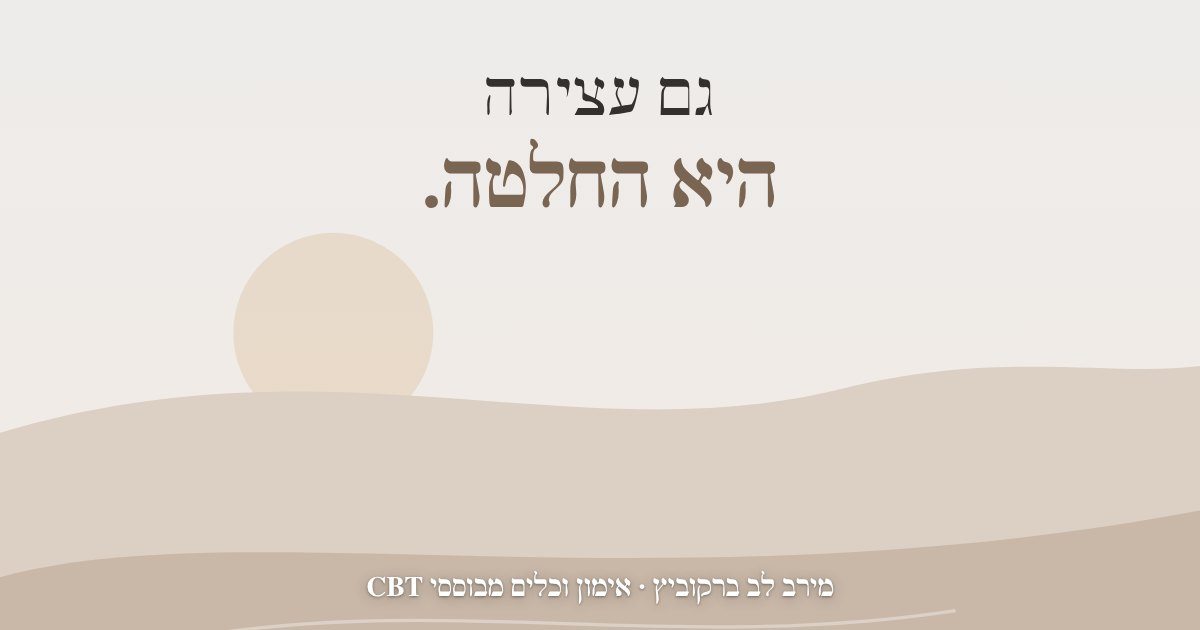
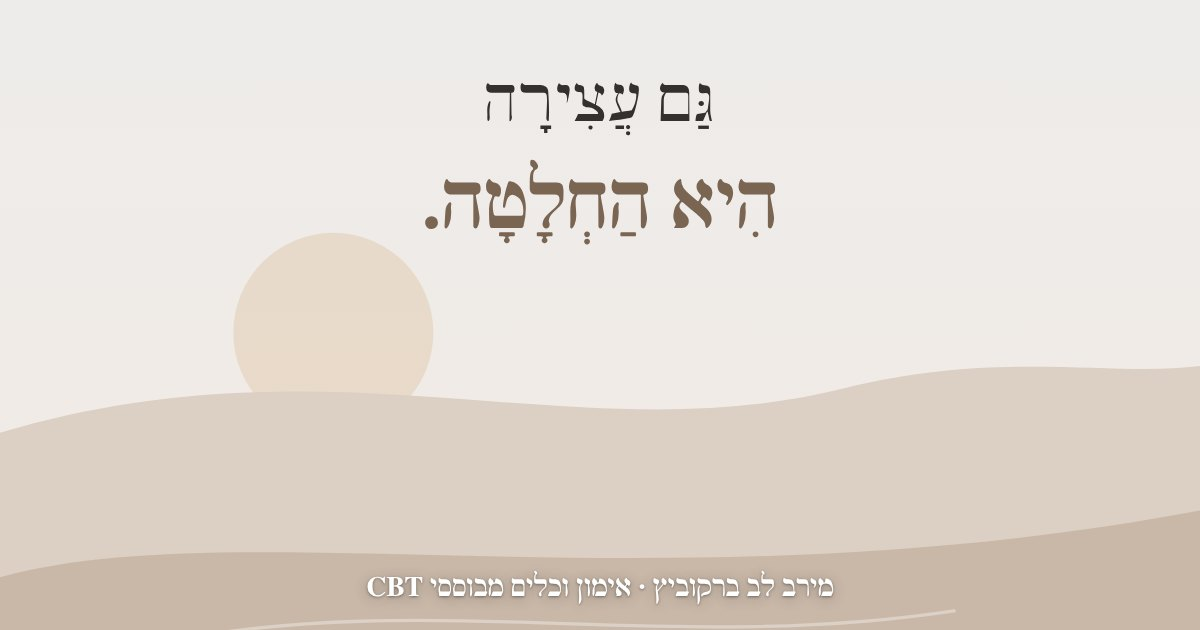
ניקוד למשפטי ההשראה בתמונות השיתוף
Claude-Session: https://claude.ai/code/session_01UJiPegA7aNKYBePT2ZEGjT

Changed region(s): [[0.3392, 0.1206, 0.6475, 0.3921]]

diff --git a/share/q/22/index.html b/share/q/22/index.html
@@ -1,9 +1,9 @@
 <!DOCTYPE html><html lang="he" dir="rtl"><head><meta charset="utf-8"><meta name="viewport" content="width=device-width,initial-scale=1">
-<title>מחשבה לקחת איתך – מירב לב ברקוביץ&#x27;</title><meta name="description" content="יש החלטות שמשנות את הדרך, ויש כאלה שמשנות את ההולכת בה.">
+<title>מחשבה לקחת איתך – מירב לב ברקוביץ&#x27;</title><meta name="description" content="יֵשׁ הַחְלָטוֹת שֶׁמְּשַׁנּוֹת אֶת הַדֶּרֶךְ, וְיֵשׁ כָּאֵלֶּה שֶׁמְּשַׁנּוֹת אֶת הַהוֹלֶכֶת בָּהּ.">
 <meta property="og:type" content="website"><meta property="og:locale" content="he_IL"><meta property="og:url" content="https://meiravlev.pages.dev/q/22/">
-<meta property="og:title" content="מחשבה לקחת איתך – מירב לב ברקוביץ&#x27;"><meta property="og:description" content="יש החלטות שמשנות את הדרך, ויש כאלה שמשנות את ההולכת בה.">
+<meta property="og:title" content="מחשבה לקחת איתך – מירב לב ברקוביץ&#x27;"><meta property="og:description" content="יֵשׁ הַחְלָטוֹת שֶׁמְּשַׁנּוֹת אֶת הַדֶּרֶךְ, וְיֵשׁ כָּאֵלֶּה שֶׁמְּשַׁנּוֹת אֶת הַהוֹלֶכֶת בָּהּ.">
 <meta property="og:image" content="https://meiravlev.pages.dev/img/q22.jpg"><meta property="og:image:width" content="1200"><meta property="og:image:height" content="630">
 <meta name="twitter:card" content="summary_large_image">
 
 <style>body{margin:0;font-family:system-ui,sans-serif;background:#faf7f2;color:#2f3b3f;text-align:center;padding:24px}img{max-width:100%;border-radius:16px}a.b{display:inline-block;margin-top:18px;background:#3e8a86;color:#fff;padding:14px 26px;border-radius:999px;text-decoration:none;font-size:18px}</style></head>
-<body><img src="/img/q22.jpg" alt="יש החלטות שמשנות את הדרך, ויש כאלה שמשנות את ההולכת בה."><p style="font-size:20px">יש החלטות שמשנות את הדרך,<br><b>ויש כאלה שמשנות את ההולכת בה.</b></p><p>מירב לב ברקוביץ · אימון וכלים מבוססי CBT</p><a class="b" href="/calm/">לכלים הדיגיטליים שלי</a></body></html>
+<body><img src="/img/q22.jpg" alt="יֵשׁ הַחְלָטוֹת שֶׁמְּשַׁנּוֹת אֶת הַדֶּרֶךְ, וְיֵשׁ כָּאֵלֶּה שֶׁמְּשַׁנּוֹת אֶת הַהוֹלֶכֶת בָּהּ."><p style="font-size:20px">יֵשׁ הַחְלָטוֹת שֶׁמְּשַׁנּוֹת אֶת הַדֶּרֶךְ,<br><b>וְיֵשׁ כָּאֵלֶּה שֶׁמְּשַׁנּוֹת אֶת הַהוֹלֶכֶת בָּהּ.</b></p><p>מירב לב ברקוביץ · אימון וכלים מבוססי CBT</p><a class="b" href="/calm/">לכלים הדיגיטליים שלי</a></body></html>

diff --git a/share/q/10/index.html b/share/q/10/index.html
@@ -1,9 +1,9 @@
 <!DOCTYPE html><html lang="he" dir="rtl"><head><meta charset="utf-8"><meta name="viewport" content="width=device-width,initial-scale=1">
-<title>מחשבה לקחת איתך – מירב לב ברקוביץ&#x27;</title><meta name="description" content="בהירות היא לא לדעת מה נכון. היא להפסיק להתווכח עם מה שכבר לא.">
+<title>מחשבה לקחת איתך – מירב לב ברקוביץ&#x27;</title><meta name="description" content="בְּהִירוּת הִיא לֹא לָדַעַת מָה נָכוֹן. הִיא לְהַפְסִיק לְהִתְוַכֵּחַ עִם מָה שֶׁכְּבָר לֹא.">
 <meta property="og:type" content="website"><meta property="og:locale" content="he_IL"><meta property="og:url" content="https://meiravlev.pages.dev/q/10/">
-<meta property="og:title" content="מחשבה לקחת איתך – מירב לב ברקוביץ&#x27;"><meta property="og:description" content="בהירות היא לא לדעת מה נכון. היא להפסיק להתווכח עם מה שכבר לא.">
+<meta property="og:title" content="מחשבה לקחת איתך – מירב לב ברקוביץ&#x27;"><meta property="og:description" content="בְּהִירוּת הִיא לֹא לָדַעַת מָה נָכוֹן. הִיא לְהַפְסִיק לְהִתְוַכֵּחַ עִם מָה שֶׁכְּבָר לֹא.">
 <meta property="og:image" content="https://meiravlev.pages.dev/img/q10.jpg"><meta property="og:image:width" content="1200"><meta property="og:image:height" content="630">
 <meta name="twitter:card" content="summary_large_image">
 
 <style>body{margin:0;font-family:system-ui,sans-serif;background:#faf7f2;color:#2f3b3f;text-align:center;padding:24px}img{max-width:100%;border-radius:16px}a.b{display:inline-block;margin-top:18px;background:#3e8a86;color:#fff;padding:14px 26px;border-radius:999px;text-decoration:none;font-size:18px}</style></head>
-<body><img src="/img/q10.jpg" alt="בהירות היא לא לדעת מה נכון. היא להפסיק להתווכח עם מה שכבר לא."><p style="font-size:20px">בהירות היא לא לדעת מה נכון.<br><b>היא להפסיק להתווכח עם מה שכבר לא.</b></p><p>מירב לב ברקוביץ · אימון וכלים מבוססי CBT</p><a class="b" href="/calm/">לכלים הדיגיטליים שלי</a></body></html>
+<body><img src="/img/q10.jpg" alt="בְּהִירוּת הִיא לֹא לָדַעַת מָה נָכוֹן. הִיא לְהַפְסִיק לְהִתְוַכֵּחַ עִם מָה שֶׁכְּבָר לֹא."><p style="font-size:20px">בְּהִירוּת הִיא לֹא לָדַעַת מָה נָכוֹן.<br><b>הִיא לְהַפְסִיק לְהִתְוַכֵּחַ עִם מָה שֶׁכְּבָר לֹא.</b></p><p>מירב לב ברקוביץ · אימון וכלים מבוססי CBT</p><a class="b" href="/calm/">לכלים הדיגיטליים שלי</a></body></html>

diff --git a/share/q/19/index.html b/share/q/19/index.html
@@ -1,9 +1,9 @@
 <!DOCTYPE html><html lang="he" dir="rtl"><head><meta charset="utf-8"><meta name="viewport" content="width=device-width,initial-scale=1">
-<title>מחשבה לקחת איתך – מירב לב ברקוביץ&#x27;</title><meta name="description" content="הוודאות מרגיעה את הראש, אבל לא נותנת לחיים להפתיע.">
+<title>מחשבה לקחת איתך – מירב לב ברקוביץ&#x27;</title><meta name="description" content="הַוַּדָּאוּת מַרְגִּיעָה אֶת הָרֹאשׁ, אֲבָל לֹא נוֹתֶנֶת לַחַיִּים לְהַפְתִּיעַ.">
 <meta property="og:type" content="website"><meta property="og:locale" content="he_IL"><meta property="og:url" content="https://meiravlev.pages.dev/q/19/">
-<meta property="og:title" content="מחשבה לקחת איתך – מירב לב ברקוביץ&#x27;"><meta property="og:description" content="הוודאות מרגיעה את הראש, אבל לא נותנת לחיים להפתיע.">
+<meta property="og:title" content="מחשבה לקחת איתך – מירב לב ברקוביץ&#x27;"><meta property="og:description" content="הַוַּדָּאוּת מַרְגִּיעָה אֶת הָרֹאשׁ, אֲבָל לֹא נוֹתֶנֶת לַחַיִּים לְהַפְתִּיעַ.">
 <meta property="og:image" content="https://meiravlev.pages.dev/img/q19.jpg"><meta property="og:image:width" content="1200"><meta property="og:image:height" content="630">
 <meta name="twitter:card" content="summary_large_image">
 
 <style>body{margin:0;font-family:system-ui,sans-serif;background:#faf7f2;color:#2f3b3f;text-align:center;padding:24px}img{max-width:100%;border-radius:16px}a.b{display:inline-block;margin-top:18px;background:#3e8a86;color:#fff;padding:14px 26px;border-radius:999px;text-decoration:none;font-size:18px}</style></head>
-<body><img src="/img/q19.jpg" alt="הוודאות מרגיעה את הראש, אבל לא נותנת לחיים להפתיע."><p style="font-size:20px">הוודאות מרגיעה את הראש,<br><b>אבל לא נותנת לחיים להפתיע.</b></p><p>מירב לב ברקוביץ · אימון וכלים מבוססי CBT</p><a class="b" href="/calm/">לכלים הדיגיטליים שלי</a></body></html>
+<body><img src="/img/q19.jpg" alt="הַוַּדָּאוּת מַרְגִּיעָה אֶת הָרֹאשׁ, אֲבָל לֹא נוֹתֶנֶת לַחַיִּים לְהַפְתִּיעַ."><p style="font-size:20px">הַוַּדָּאוּת מַרְגִּיעָה אֶת הָרֹאשׁ,<br><b>אֲבָל לֹא נוֹתֶנֶת לַחַיִּים לְהַפְתִּיעַ.</b></p><p>מירב לב ברקוביץ · אימון וכלים מבוססי CBT</p><a class="b" href="/calm/">לכלים הדיגיטליים שלי</a></body></html>

diff --git a/share/q/04/index.html b/share/q/04/index.html
@@ -1,9 +1,9 @@
 <!DOCTYPE html><html lang="he" dir="rtl"><head><meta charset="utf-8"><meta name="viewport" content="width=device-width,initial-scale=1">
-<title>מחשבה לקחת איתך – מירב לב ברקוביץ&#x27;</title><meta name="description" content="אנחנו מחכות שהנסיבות ישתנו. הנסיבות מחכות לנו.">
+<title>מחשבה לקחת איתך – מירב לב ברקוביץ&#x27;</title><meta name="description" content="אֲנַחְנוּ מְחַכּוֹת שֶׁהַנְּסִבּוֹת יִשְׁתַּנּוּ. הַנְּסִבּוֹת מְחַכּוֹת לָנוּ.">
 <meta property="og:type" content="website"><meta property="og:locale" content="he_IL"><meta property="og:url" content="https://meiravlev.pages.dev/q/04/">
-<meta property="og:title" content="מחשבה לקחת איתך – מירב לב ברקוביץ&#x27;"><meta property="og:description" content="אנחנו מחכות שהנסיבות ישתנו. הנסיבות מחכות לנו.">
+<meta property="og:title" content="מחשבה לקחת איתך – מירב לב ברקוביץ&#x27;"><meta property="og:description" content="אֲנַחְנוּ מְחַכּוֹת שֶׁהַנְּסִבּוֹת יִשְׁתַּנּוּ. הַנְּסִבּוֹת מְחַכּוֹת לָנוּ.">
 <meta property="og:image" content="https://meiravlev.pages.dev/img/q04.jpg"><meta property="og:image:width" content="1200"><meta property="og:image:height" content="630">
 <meta name="twitter:card" content="summary_large_image">
 
 <style>body{margin:0;font-family:system-ui,sans-serif;background:#faf7f2;color:#2f3b3f;text-align:center;padding:24px}img{max-width:100%;border-radius:16px}a.b{display:inline-block;margin-top:18px;background:#3e8a86;color:#fff;padding:14px 26px;border-radius:999px;text-decoration:none;font-size:18px}</style></head>
-<body><img src="/img/q04.jpg" alt="אנחנו מחכות שהנסיבות ישתנו. הנסיבות מחכות לנו."><p style="font-size:20px">אנחנו מחכות שהנסיבות ישתנו.<br><b>הנסיבות מחכות לנו.</b></p><p>מירב לב ברקוביץ · אימון וכלים מבוססי CBT</p><a class="b" href="/calm/">לכלים הדיגיטליים שלי</a></body></html>
+<body><img src="/img/q04.jpg" alt="אֲנַחְנוּ מְחַכּוֹת שֶׁהַנְּסִבּוֹת יִשְׁתַּנּוּ. הַנְּסִבּוֹת מְחַכּוֹת לָנוּ."><p style="font-size:20px">אֲנַחְנוּ מְחַכּוֹת שֶׁהַנְּסִבּוֹת יִשְׁתַּנּוּ.<br><b>הַנְּסִבּוֹת מְחַכּוֹת לָנוּ.</b></p><p>מירב לב ברקוביץ · אימון וכלים מבוססי CBT</p><a class="b" href="/calm/">לכלים הדיגיטליים שלי</a></body></html>

diff --git a/share/q/09/index.html b/share/q/09/index.html
@@ -1,9 +1,9 @@
 <!DOCTYPE html><html lang="he" dir="rtl"><head><meta charset="utf-8"><meta name="viewport" content="width=device-width,initial-scale=1">
-<title>מחשבה לקחת איתך – מירב לב ברקוביץ&#x27;</title><meta name="description" content="כשמשנים את השאלה, לפעמים התשובה כבר לא נחוצה.">
+<title>מחשבה לקחת איתך – מירב לב ברקוביץ&#x27;</title><meta name="description" content="כְּשֶׁמְּשַׁנִּים אֶת הַשְּׁאֵלָה, לִפְעָמִים הַתְּשׁוּבָה כְּבָר לֹא נְחוּצָה.">
 <meta property="og:type" content="website"><meta property="og:locale" content="he_IL"><meta property="og:url" content="https://meiravlev.pages.dev/q/09/">
-<meta property="og:title" content="מחשבה לקחת איתך – מירב לב ברקוביץ&#x27;"><meta property="og:description" content="כשמשנים את השאלה, לפעמים התשובה כבר לא נחוצה.">
+<meta property="og:title" content="מחשבה לקחת איתך – מירב לב ברקוביץ&#x27;"><meta property="og:description" content="כְּשֶׁמְּשַׁנִּים אֶת הַשְּׁאֵלָה, לִפְעָמִים הַתְּשׁוּבָה כְּבָר לֹא נְחוּצָה.">
 <meta property="og:image" content="https://meiravlev.pages.dev/img/q09.jpg"><meta property="og:image:width" content="1200"><meta property="og:image:height" content="630">
 <meta name="twitter:card" content="summary_large_image">
 
 <style>body{margin:0;font-family:system-ui,sans-serif;background:#faf7f2;color:#2f3b3f;text-align:center;padding:24px}img{max-width:100%;border-radius:16px}a.b{display:inline-block;margin-top:18px;background:#3e8a86;color:#fff;padding:14px 26px;border-radius:999px;text-decoration:none;font-size:18px}</style></head>
-<body><img src="/img/q09.jpg" alt="כשמשנים את השאלה, לפעמים התשובה כבר לא נחוצה."><p style="font-size:20px">כשמשנים את השאלה,<br><b>לפעמים התשובה כבר לא נחוצה.</b></p><p>מירב לב ברקוביץ · אימון וכלים מבוססי CBT</p><a class="b" href="/calm/">לכלים הדיגיטליים שלי</a></body></html>
+<body><img src="/img/q09.jpg" alt="כְּשֶׁמְּשַׁנִּים אֶת הַשְּׁאֵלָה, לִפְעָמִים הַתְּשׁוּבָה כְּבָר לֹא נְחוּצָה."><p style="font-size:20px">כְּשֶׁמְּשַׁנִּים אֶת הַשְּׁאֵלָה,<br><b>לִפְעָמִים הַתְּשׁוּבָה כְּבָר לֹא נְחוּצָה.</b></p><p>מירב לב ברקוביץ · אימון וכלים מבוססי CBT</p><a class="b" href="/calm/">לכלים הדיגיטליים שלי</a></body></html>

diff --git a/share/q/24/index.html b/share/q/24/index.html
@@ -1,9 +1,9 @@
 <!DOCTYPE html><html lang="he" dir="rtl"><head><meta charset="utf-8"><meta name="viewport" content="width=device-width,initial-scale=1">
-<title>מחשבה לקחת איתך – מירב לב ברקוביץ&#x27;</title><meta name="description" content="את לא צריכה תשובה חדשה. רק אומץ לשמוע את הישנה.">
+<title>מחשבה לקחת איתך – מירב לב ברקוביץ&#x27;</title><meta name="description" content="אַתְּ לֹא צְרִיכָה תְּשׁוּבָה חֲדָשָׁה. רַק אֹמֶץ לִשְׁמֹעַ אֶת הַיְּשָׁנָה.">
 <meta property="og:type" content="website"><meta property="og:locale" content="he_IL"><meta property="og:url" content="https://meiravlev.pages.dev/q/24/">
-<meta property="og:title" content="מחשבה לקחת איתך – מירב לב ברקוביץ&#x27;"><meta property="og:description" content="את לא צריכה תשובה חדשה. רק אומץ לשמוע את הישנה.">
+<meta property="og:title" content="מחשבה לקחת איתך – מירב לב ברקוביץ&#x27;"><meta property="og:description" content="אַתְּ לֹא צְרִיכָה תְּשׁוּבָה חֲדָשָׁה. רַק אֹמֶץ לִשְׁמֹעַ אֶת הַיְּשָׁנָה.">
 <meta property="og:image" content="https://meiravlev.pages.dev/img/q24.jpg"><meta property="og:image:width" content="1200"><meta property="og:image:height" content="630">
 <meta name="twitter:card" content="summary_large_image">
 
 <style>body{margin:0;font-family:system-ui,sans-serif;background:#faf7f2;color:#2f3b3f;text-align:center;padding:24px}img{max-width:100%;border-radius:16px}a.b{display:inline-block;margin-top:18px;background:#3e8a86;color:#fff;padding:14px 26px;border-radius:999px;text-decoration:none;font-size:18px}</style></head>
-<body><img src="/img/q24.jpg" alt="את לא צריכה תשובה חדשה. רק אומץ לשמוע את הישנה."><p style="font-size:20px">את לא צריכה תשובה חדשה.<br><b>רק אומץ לשמוע את הישנה.</b></p><p>מירב לב ברקוביץ · אימון וכלים מבוססי CBT</p><a class="b" href="/calm/">לכלים הדיגיטליים שלי</a></body></html>
+<body><img src="/img/q24.jpg" alt="אַתְּ לֹא צְרִיכָה תְּשׁוּבָה חֲדָשָׁה. רַק אֹמֶץ לִשְׁמֹעַ אֶת הַיְּשָׁנָה."><p style="font-size:20px">אַתְּ לֹא צְרִיכָה תְּשׁוּבָה חֲדָשָׁה.<br><b>רַק אֹמֶץ לִשְׁמֹעַ אֶת הַיְּשָׁנָה.</b></p><p>מירב לב ברקוביץ · אימון וכלים מבוססי CBT</p><a class="b" href="/calm/">לכלים הדיגיטליים שלי</a></body></html>

diff --git a/share/q/08/index.html b/share/q/08/index.html
@@ -1,9 +1,9 @@
 <!DOCTYPE html><html lang="he" dir="rtl"><head><meta charset="utf-8"><meta name="viewport" content="width=device-width,initial-scale=1">
-<title>מחשבה לקחת איתך – מירב לב ברקוביץ&#x27;</title><meta name="description" content="השינוי מתחיל כשלהישאר נהיה קשה יותר מללכת.">
+<title>מחשבה לקחת איתך – מירב לב ברקוביץ&#x27;</title><meta name="description" content="הַשִּׁנּוּי מַתְחִיל כְּשֶׁלְּהִשָּׁאֵר נִהְיֶה קָשֶׁה יוֹתֵר מִלָּלֶכֶת.">
 <meta property="og:type" content="website"><meta property="og:locale" content="he_IL"><meta property="og:url" content="https://meiravlev.pages.dev/q/08/">
-<meta property="og:title" content="מחשבה לקחת איתך – מירב לב ברקוביץ&#x27;"><meta property="og:description" content="השינוי מתחיל כשלהישאר נהיה קשה יותר מללכת.">
+<meta property="og:title" content="מחשבה לקחת איתך – מירב לב ברקוביץ&#x27;"><meta property="og:description" content="הַשִּׁנּוּי מַתְחִיל כְּשֶׁלְּהִשָּׁאֵר נִהְיֶה קָשֶׁה יוֹתֵר מִלָּלֶכֶת.">
 <meta property="og:image" content="https://meiravlev.pages.dev/img/q08.jpg"><meta property="og:image:width" content="1200"><meta property="og:image:height" content="630">
 <meta name="twitter:card" content="summary_large_image">
 
 <style>body{margin:0;font-family:system-ui,sans-serif;background:#faf7f2;color:#2f3b3f;text-align:center;padding:24px}img{max-width:100%;border-radius:16px}a.b{display:inline-block;margin-top:18px;background:#3e8a86;color:#fff;padding:14px 26px;border-radius:999px;text-decoration:none;font-size:18px}</style></head>
-<body><img src="/img/q08.jpg" alt="השינוי מתחיל כשלהישאר נהיה קשה יותר מללכת."><p style="font-size:20px">השינוי מתחיל<br><b>כשלהישאר נהיה קשה יותר מללכת.</b></p><p>מירב לב ברקוביץ · אימון וכלים מבוססי CBT</p><a class="b" href="/calm/">לכלים הדיגיטליים שלי</a></body></html>
+<body><img src="/img/q08.jpg" alt="הַשִּׁנּוּי מַתְחִיל כְּשֶׁלְּהִשָּׁאֵר נִהְיֶה קָשֶׁה יוֹתֵר מִלָּלֶכֶת."><p style="font-size:20px">הַשִּׁנּוּי מַתְחִיל<br><b>כְּשֶׁלְּהִשָּׁאֵר נִהְיֶה קָשֶׁה יוֹתֵר מִלָּלֶכֶת.</b></p><p>מירב לב ברקוביץ · אימון וכלים מבוססי CBT</p><a class="b" href="/calm/">לכלים הדיגיטליים שלי</a></body></html>

diff --git a/share/q/20/index.html b/share/q/20/index.html
@@ -1,9 +1,9 @@
 <!DOCTYPE html><html lang="he" dir="rtl"><head><meta charset="utf-8"><meta name="viewport" content="width=device-width,initial-scale=1">
-<title>מחשבה לקחת איתך – מירב לב ברקוביץ&#x27;</title><meta name="description" content="משלמים מחיר כבד כדי לא לשלם את מחיר השינוי.">
+<title>מחשבה לקחת איתך – מירב לב ברקוביץ&#x27;</title><meta name="description" content="מְשַׁלְּמִים מְחִיר כָּבֵד כְּדֵי לֹא לְשַׁלֵּם אֶת מְחִיר הַשִּׁנּוּי.">
 <meta property="og:type" content="website"><meta property="og:locale" content="he_IL"><meta property="og:url" content="https://meiravlev.pages.dev/q/20/">
-<meta property="og:title" content="מחשבה לקחת איתך – מירב לב ברקוביץ&#x27;"><meta property="og:description" content="משלמים מחיר כבד כדי לא לשלם את מחיר השינוי.">
+<meta property="og:title" content="מחשבה לקחת איתך – מירב לב ברקוביץ&#x27;"><meta property="og:description" content="מְשַׁלְּמִים מְחִיר כָּבֵד כְּדֵי לֹא לְשַׁלֵּם אֶת מְחִיר הַשִּׁנּוּי.">
 <meta property="og:image" content="https://meiravlev.pages.dev/img/q20.jpg"><meta property="og:image:width" content="1200"><meta property="og:image:height" content="630">
 <meta name="twitter:card" content="summary_large_image">
 
 <style>body{margin:0;font-family:system-ui,sans-serif;background:#faf7f2;color:#2f3b3f;text-align:center;padding:24px}img{max-width:100%;border-radius:16px}a.b{display:inline-block;margin-top:18px;background:#3e8a86;color:#fff;padding:14px 26px;border-radius:999px;text-decoration:none;font-size:18px}</style></head>
-<body><img src="/img/q20.jpg" alt="משלמים מחיר כבד כדי לא לשלם את מחיר השינוי."><p style="font-size:20px">משלמים מחיר כבד<br><b>כדי לא לשלם את מחיר השינוי.</b></p><p>מירב לב ברקוביץ · אימון וכלים מבוססי CBT</p><a class="b" href="/calm/">לכלים הדיגיטליים שלי</a></body></html>
+<body><img src="/img/q20.jpg" alt="מְשַׁלְּמִים מְחִיר כָּבֵד כְּדֵי לֹא לְשַׁלֵּם אֶת מְחִיר הַשִּׁנּוּי."><p style="font-size:20px">מְשַׁלְּמִים מְחִיר כָּבֵד<br><b>כְּדֵי לֹא לְשַׁלֵּם אֶת מְחִיר הַשִּׁנּוּי.</b></p><p>מירב לב ברקוביץ · אימון וכלים מבוססי CBT</p><a class="b" href="/calm/">לכלים הדיגיטליים שלי</a></body></html>

diff --git a/share/q/03/index.html b/share/q/03/index.html
@@ -1,9 +1,9 @@
 <!DOCTYPE html><html lang="he" dir="rtl"><head><meta charset="utf-8"><meta name="viewport" content="width=device-width,initial-scale=1">
-<title>מחשבה לקחת איתך – מירב לב ברקוביץ&#x27;</title><meta name="description" content="מחשבה היא לא עובדה. גם כשהיא מדברת בביטחון.">
+<title>מחשבה לקחת איתך – מירב לב ברקוביץ&#x27;</title><meta name="description" content="מַחְשָׁבָה הִיא לֹא עֻבְדָּה. גַּם כְּשֶׁהִיא מְדַבֶּרֶת בְּבִטָּחוֹן.">
 <meta property="og:type" content="website"><meta property="og:locale" content="he_IL"><meta property="og:url" content="https://meiravlev.pages.dev/q/03/">
-<meta property="og:title" content="מחשבה לקחת איתך – מירב לב ברקוביץ&#x27;"><meta property="og:description" content="מחשבה היא לא עובדה. גם כשהיא מדברת בביטחון.">
+<meta property="og:title" content="מחשבה לקחת איתך – מירב לב ברקוביץ&#x27;"><meta property="og:description" content="מַחְשָׁבָה הִיא לֹא עֻבְדָּה. גַּם כְּשֶׁהִיא מְדַבֶּרֶת בְּבִטָּחוֹן.">
 <meta property="og:image" content="https://meiravlev.pages.dev/img/q03.jpg"><meta property="og:image:width" content="1200"><meta property="og:image:height" content="630">
 <meta name="twitter:card" content="summary_large_image">
 
 <style>body{margin:0;font-family:system-ui,sans-serif;background:#faf7f2;color:#2f3b3f;text-align:center;padding:24px}img{max-width:100%;border-radius:16px}a.b{display:inline-block;margin-top:18px;background:#3e8a86;color:#fff;padding:14px 26px;border-radius:999px;text-decoration:none;font-size:18px}</style></head>
-<body><img src="/img/q03.jpg" alt="מחשבה היא לא עובדה. גם כשהיא מדברת בביטחון."><p style="font-size:20px">מחשבה היא לא עובדה.<br><b>גם כשהיא מדברת בביטחון.</b></p><p>מירב לב ברקוביץ · אימון וכלים מבוססי CBT</p><a class="b" href="/calm/">לכלים הדיגיטליים שלי</a></body></html>
+<body><img src="/img/q03.jpg" alt="מַחְשָׁבָה הִיא לֹא עֻבְדָּה. גַּם כְּשֶׁהִיא מְדַבֶּרֶת בְּבִטָּחוֹן."><p style="font-size:20px">מַחְשָׁבָה הִיא לֹא עֻבְדָּה.<br><b>גַּם כְּשֶׁהִיא מְדַבֶּרֶת בְּבִטָּחוֹן.</b></p><p>מירב לב ברקוביץ · אימון וכלים מבוססי CBT</p><a class="b" href="/calm/">לכלים הדיגיטליים שלי</a></body></html>

diff --git a/share/q/01/index.html b/share/q/01/index.html
@@ -1,9 +1,9 @@
 <!DOCTYPE html><html lang="he" dir="rtl"><head><meta charset="utf-8"><meta name="viewport" content="width=device-width,initial-scale=1">
-<title>מחשבה לקחת איתך – מירב לב ברקוביץ&#x27;</title><meta name="description" content="לא כל שקט הוא שלווה. לפעמים זה פחד בבגדי חג.">
+<title>מחשבה לקחת איתך – מירב לב ברקוביץ&#x27;</title><meta name="description" content="לֹא כָּל שֶׁקֶט הוּא שַׁלְוָה. לִפְעָמִים זֶה פַּחַד בְּבִגְדֵי חַג.">
 <meta property="og:type" content="website"><meta property="og:locale" content="he_IL"><meta property="og:url" content="https://meiravlev.pages.dev/q/01/">
-<meta property="og:title" content="מחשבה לקחת איתך – מירב לב ברקוביץ&#x27;"><meta property="og:description" content="לא כל שקט הוא שלווה. לפעמים זה פחד בבגדי חג.">
+<meta property="og:title" content="מחשבה לקחת איתך – מירב לב ברקוביץ&#x27;"><meta property="og:description" content="לֹא כָּל שֶׁקֶט הוּא שַׁלְוָה. לִפְעָמִים זֶה פַּחַד בְּבִגְדֵי חַג.">
 <meta property="og:image" content="https://meiravlev.pages.dev/img/q01.jpg"><meta property="og:image:width" content="1200"><meta property="og:image:height" content="630">
 <meta name="twitter:card" content="summary_large_image">
 
 <style>body{margin:0;font-family:system-ui,sans-serif;background:#faf7f2;color:#2f3b3f;text-align:center;padding:24px}img{max-width:100%;border-radius:16px}a.b{display:inline-block;margin-top:18px;background:#3e8a86;color:#fff;padding:14px 26px;border-radius:999px;text-decoration:none;font-size:18px}</style></head>
-<body><img src="/img/q01.jpg" alt="לא כל שקט הוא שלווה. לפעמים זה פחד בבגדי חג."><p style="font-size:20px">לא כל שקט הוא שלווה.<br><b>לפעמים זה פחד בבגדי חג.</b></p><p>מירב לב ברקוביץ · אימון וכלים מבוססי CBT</p><a class="b" href="/calm/">לכלים הדיגיטליים שלי</a></body></html>
+<body><img src="/img/q01.jpg" alt="לֹא כָּל שֶׁקֶט הוּא שַׁלְוָה. לִפְעָמִים זֶה פַּחַד בְּבִגְדֵי חַג."><p style="font-size:20px">לֹא כָּל שֶׁקֶט הוּא שַׁלְוָה.<br><b>לִפְעָמִים זֶה פַּחַד בְּבִגְדֵי חַג.</b></p><p>מירב לב ברקוביץ · אימון וכלים מבוססי CBT</p><a class="b" href="/calm/">לכלים הדיגיטליים שלי</a></body></html>

diff --git a/share/q/06/index.html b/share/q/06/index.html
@@ -1,9 +1,9 @@
 <!DOCTYPE html><html lang="he" dir="rtl"><head><meta charset="utf-8"><meta name="viewport" content="width=device-width,initial-scale=1">
-<title>מחשבה לקחת איתך – מירב לב ברקוביץ&#x27;</title><meta name="description" content="סבלנות או פחד לזוז? מבחוץ הם נראים אותו דבר.">
+<title>מחשבה לקחת איתך – מירב לב ברקוביץ&#x27;</title><meta name="description" content="סַבְלָנוּת אוֹ פַּחַד לָזוּז? מִבַּחוּץ הֵם נִרְאִים אוֹתוֹ דָּבָר.">
 <meta property="og:type" content="website"><meta property="og:locale" content="he_IL"><meta property="og:url" content="https://meiravlev.pages.dev/q/06/">
-<meta property="og:title" content="מחשבה לקחת איתך – מירב לב ברקוביץ&#x27;"><meta property="og:description" content="סבלנות או פחד לזוז? מבחוץ הם נראים אותו דבר.">
+<meta property="og:title" content="מחשבה לקחת איתך – מירב לב ברקוביץ&#x27;"><meta property="og:description" content="סַבְלָנוּת אוֹ פַּחַד לָזוּז? מִבַּחוּץ הֵם נִרְאִים אוֹתוֹ דָּבָר.">
 <meta property="og:image" content="https://meiravlev.pages.dev/img/q06.jpg"><meta property="og:image:width" content="1200"><meta property="og:image:height" content="630">
 <meta name="twitter:card" content="summary_large_image">
 
 <style>body{margin:0;font-family:system-ui,sans-serif;background:#faf7f2;color:#2f3b3f;text-align:center;padding:24px}img{max-width:100%;border-radius:16px}a.b{display:inline-block;margin-top:18px;background:#3e8a86;color:#fff;padding:14px 26px;border-radius:999px;text-decoration:none;font-size:18px}</style></head>
-<body><img src="/img/q06.jpg" alt="סבלנות או פחד לזוז? מבחוץ הם נראים אותו דבר."><p style="font-size:20px">סבלנות או פחד לזוז?<br><b>מבחוץ הם נראים אותו דבר.</b></p><p>מירב לב ברקוביץ · אימון וכלים מבוססי CBT</p><a class="b" href="/calm/">לכלים הדיגיטליים שלי</a></body></html>
+<body><img src="/img/q06.jpg" alt="סַבְלָנוּת אוֹ פַּחַד לָזוּז? מִבַּחוּץ הֵם נִרְאִים אוֹתוֹ דָּבָר."><p style="font-size:20px">סַבְלָנוּת אוֹ פַּחַד לָזוּז?<br><b>מִבַּחוּץ הֵם נִרְאִים אוֹתוֹ דָּבָר.</b></p><p>מירב לב ברקוביץ · אימון וכלים מבוססי CBT</p><a class="b" href="/calm/">לכלים הדיגיטליים שלי</a></body></html>

diff --git a/share/q/07/index.html b/share/q/07/index.html
@@ -1,9 +1,9 @@
 <!DOCTYPE html><html lang="he" dir="rtl"><head><meta charset="utf-8"><meta name="viewport" content="width=device-width,initial-scale=1">
-<title>מחשבה לקחת איתך – מירב לב ברקוביץ&#x27;</title><meta name="description" content="הפחד לטעות הוא לפעמים הטעות היקרה מכולן.">
+<title>מחשבה לקחת איתך – מירב לב ברקוביץ&#x27;</title><meta name="description" content="הַפַּחַד לִטְעוֹת הוּא לִפְעָמִים הַטָּעוּת הַיְּקָרָה מִכֻּלָּן.">
 <meta property="og:type" content="website"><meta property="og:locale" content="he_IL"><meta property="og:url" content="https://meiravlev.pages.dev/q/07/">
-<meta property="og:title" content="מחשבה לקחת איתך – מירב לב ברקוביץ&#x27;"><meta property="og:description" content="הפחד לטעות הוא לפעמים הטעות היקרה מכולן.">
+<meta property="og:title" content="מחשבה לקחת איתך – מירב לב ברקוביץ&#x27;"><meta property="og:description" content="הַפַּחַד לִטְעוֹת הוּא לִפְעָמִים הַטָּעוּת הַיְּקָרָה מִכֻּלָּן.">
 <meta property="og:image" content="https://meiravlev.pages.dev/img/q07.jpg"><meta property="og:image:width" content="1200"><meta property="og:image:height" content="630">
 <meta name="twitter:card" content="summary_large_image">
 
 <style>body{margin:0;font-family:system-ui,sans-serif;background:#faf7f2;color:#2f3b3f;text-align:center;padding:24px}img{max-width:100%;border-radius:16px}a.b{display:inline-block;margin-top:18px;background:#3e8a86;color:#fff;padding:14px 26px;border-radius:999px;text-decoration:none;font-size:18px}</style></head>
-<body><img src="/img/q07.jpg" alt="הפחד לטעות הוא לפעמים הטעות היקרה מכולן."><p style="font-size:20px">הפחד לטעות<br><b>הוא לפעמים הטעות היקרה מכולן.</b></p><p>מירב לב ברקוביץ · אימון וכלים מבוססי CBT</p><a class="b" href="/calm/">לכלים הדיגיטליים שלי</a></body></html>
+<body><img src="/img/q07.jpg" alt="הַפַּחַד לִטְעוֹת הוּא לִפְעָמִים הַטָּעוּת הַיְּקָרָה מִכֻּלָּן."><p style="font-size:20px">הַפַּחַד לִטְעוֹת<br><b>הוּא לִפְעָמִים הַטָּעוּת הַיְּקָרָה מִכֻּלָּן.</b></p><p>מירב לב ברקוביץ · אימון וכלים מבוססי CBT</p><a class="b" href="/calm/">לכלים הדיגיטליים שלי</a></body></html>
